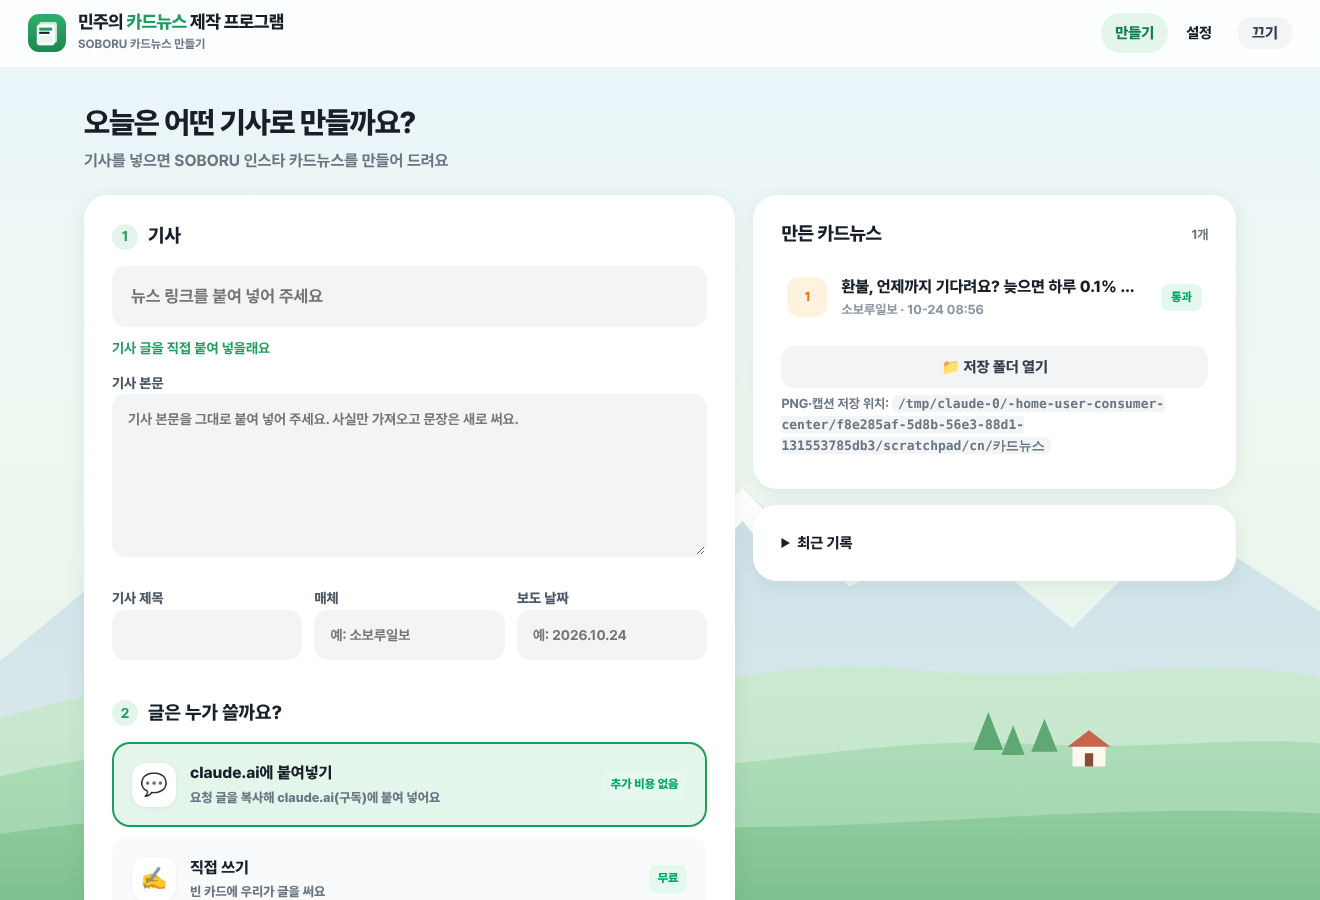
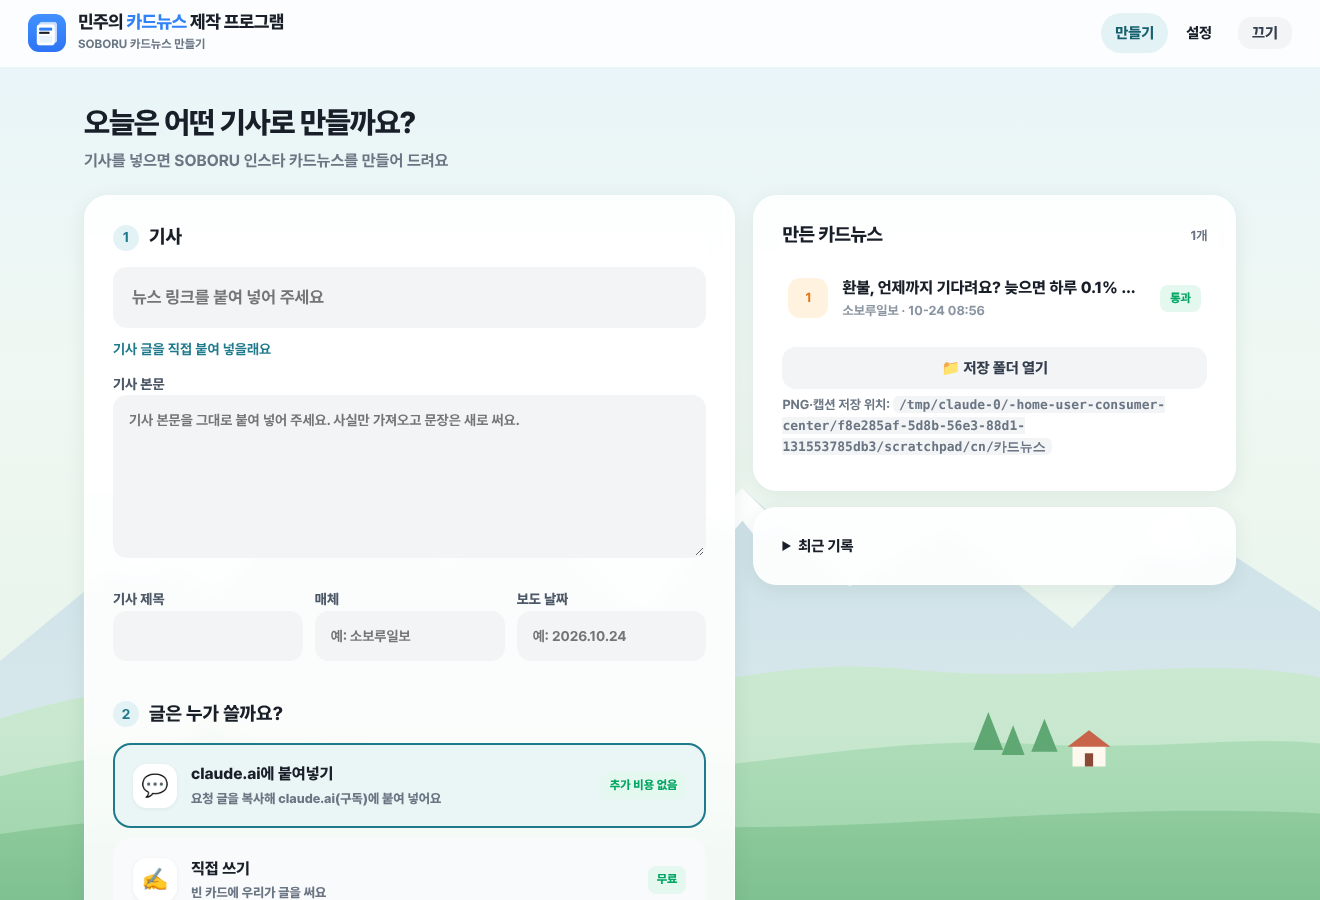
민주의 카드뉴스: 로고는 토스 파랑, 나머지는 알프스 (빙하 호수 청록 버튼·링크)
Claude-Session: https://claude.ai/code/session_019pruyVeyaXBtMyavqgKUrD

diff --git a/cardnews/templates/base.html b/cardnews/templates/base.html
@@ -5,14 +5,14 @@
 <style>
 @font-face{font-family:Pretendard;font-weight:700;src:url({{ url_for('static', filename='fonts/Pretendard-Bold.otf') }}) format('opentype')}
 @font-face{font-family:Pretendard;font-weight:800;src:url({{ url_for('static', filename='fonts/Pretendard-ExtraBold.otf') }}) format('opentype')}
-/* 민주의 카드뉴스 제작 프로그램: UI는 토스처럼, 색은 알프스 (전나무 초록 버튼·빙하 파랑 링크·안개 같은 흰 카드), 바탕은 초록 스위스 알프스. 만드는 카드뉴스만 뉴닉+소보루 */
-:root{--or:#2F6B4F;--or-deep:#24563F;--or-soft:#E7F1EB;--link:#2E78AE;--brown:#191F28;--ink:#191F28;--sub:#6B7684;--line:#E5E8EB;--bg:#EEF7F0;--ok:#00A661;--bad:#F04452;--shadow:0 4px 20px rgba(24,68,46,.08)}
+/* 민주의 카드뉴스 제작 프로그램: UI는 토스처럼, 로고는 토스 파랑, 나머지는 알프스 (빙하 호수 청록 버튼·링크, 안개 같은 흰 카드, 하늘·설산·들판 배경), 바탕은 초록 스위스 알프스. 만드는 카드뉴스만 뉴닉+소보루 */
+:root{--or:#1F7A8C;--or-deep:#17606E;--or-soft:#E3F2F4;--link:#1F7A8C;--brown:#191F28;--ink:#191F28;--sub:#6B7684;--line:#E5E8EB;--bg:#EEF7F0;--ok:#00A661;--bad:#F04452;--shadow:0 4px 20px rgba(24,68,46,.08)}
 *{box-sizing:border-box}body{margin:0;min-height:100vh;background:url({{ url_for('static', filename='alps.svg') }}) center bottom/100% auto no-repeat fixed,linear-gradient(180deg,#E8F4FA 0%,#EFF8F2 42%,#E3F2E7 100%) fixed;color:var(--ink);font:15px/1.6 Pretendard,-apple-system,BlinkMacSystemFont,'Apple SD Gothic Neo','Malgun Gothic',sans-serif;font-weight:700;word-break:keep-all}
 a{color:var(--link)}
 .top{position:sticky;top:0;z-index:5;display:flex;align-items:center;justify-content:space-between;gap:12px;padding:12px 28px;background:rgba(255,255,255,.82);backdrop-filter:blur(12px);border-bottom:1px solid rgba(255,255,255,.6)}
 .brand{display:flex;align-items:center;gap:12px;text-decoration:none;color:var(--ink)}
 .brand img{width:38px;height:38px;border-radius:11px}
-.brand b{display:block;font:800 18px/1.15 Pretendard,sans-serif;letter-spacing:-.03em}.brand b em{font-style:normal;color:var(--link)}
+.brand b{display:block;font:800 18px/1.15 Pretendard,sans-serif;letter-spacing:-.03em}.brand b em{font-style:normal;color:#3182F6}
 .brand small{display:block;font-size:12px;color:var(--sub);font-weight:700;margin-top:2px}
 .top nav{display:flex;align-items:center;gap:4px}
 .top nav a{padding:8px 14px;border-radius:999px;text-decoration:none;color:var(--ink);font-weight:800}.top nav a:hover{background:var(--bg)}.top nav a.on{background:var(--or-soft);color:var(--or-deep)}

diff --git a/cardnews/templates/home.html b/cardnews/templates/home.html
@@ -5,14 +5,14 @@
 .hello{margin:6px 0 22px}.hello h1{font-size:30px}.hello p{color:#6B7684;margin:4px 0 0;font-size:16px}
 .grid{display:grid;grid-template-columns:minmax(0,1.35fr) minmax(0,1fr);gap:18px;align-items:start}
 @media (max-width:960px){.grid{grid-template-columns:minmax(0,1fr)}}
-.step{display:flex;align-items:center;gap:10px;margin:0 0 14px}.step i{font-style:normal;width:26px;height:26px;border-radius:50%;background:#E7F1EB;color:#2F6B4F;display:grid;place-items:center;font-size:14px}
+.step{display:flex;align-items:center;gap:10px;margin:0 0 14px}.step i{font-style:normal;width:26px;height:26px;border-radius:50%;background:#E3F2F4;color:#1F7A8C;display:grid;place-items:center;font-size:14px}
 .step b{font-size:19px}
 .big input[type=url]{font-size:17px;padding:16px 18px}
-.toggle{display:inline-block;margin-top:10px;color:#2E78AE;font-size:14px;cursor:pointer}
+.toggle{display:inline-block;margin-top:10px;color:#1F7A8C;font-size:14px;cursor:pointer}
 .tiles{display:grid;gap:10px}
 .tile{position:relative;display:flex;gap:14px;align-items:center;padding:16px 18px;border-radius:18px;background:#F9FAFB;border:2px solid transparent;cursor:pointer;margin:0;transition:background .15s,border-color .15s}
 .tile:hover{background:#F2F4F6}.tile input{position:absolute;opacity:0;pointer-events:none}
-.tile:has(input:checked){background:#EDF5F0;border-color:#2F6B4F}
+.tile:has(input:checked){background:#EAF5F6;border-color:#1F7A8C}
 .tile:has(input:disabled){opacity:.5;cursor:not-allowed}
 .tile .ico{width:44px;height:44px;border-radius:14px;background:#fff;display:grid;place-items:center;font-size:22px;flex:none;box-shadow:0 1px 4px rgba(0,27,55,.06)}
 .tile b{display:block;font-size:16px;color:#191F28}.tile small{display:block;color:#6B7684;font-size:13px;margin-top:2px}

diff --git a/cardnews/templates/edit.html b/cardnews/templates/edit.html
@@ -10,7 +10,7 @@
 .cn-slide{flex:0 0 100%;height:100%}.cn-slide svg{display:block;width:100%;height:100%}
 .cn-nav{position:absolute;top:50%;transform:translateY(-50%);width:38px;height:38px;border-radius:50%;border:0;background:rgba(255,255,255,.92);box-shadow:0 1px 6px rgba(0,0,0,.2);font-size:20px;padding:0;color:#191F28}
 .cn-nav.prev{left:8px}.cn-nav.next{right:8px}.cn-nav[disabled]{opacity:0;pointer-events:none}
-.cn-dots{display:flex;justify-content:center;gap:6px;margin:12px 0 2px}.cn-dots button{width:7px;height:7px;border-radius:50%;border:0;padding:0;background:#D1D6DB}.cn-dots button.on{background:#2F6B4F;width:18px;border-radius:4px}
+.cn-dots{display:flex;justify-content:center;gap:6px;margin:12px 0 2px}.cn-dots button{width:7px;height:7px;border-radius:50%;border:0;padding:0;background:#D1D6DB}.cn-dots button.on{background:#1F7A8C;width:18px;border-radius:4px}
 .cn-count{text-align:center;font-size:13px;color:#6b6f76;margin:0}
 .cn-form h3{margin:24px 0 6px;font:800 17px Pretendard,sans-serif;color:#191F28}
 .cn-cover{display:grid;grid-template-columns:auto 1fr 1fr;gap:6px;align-items:center;margin:4px 0}
